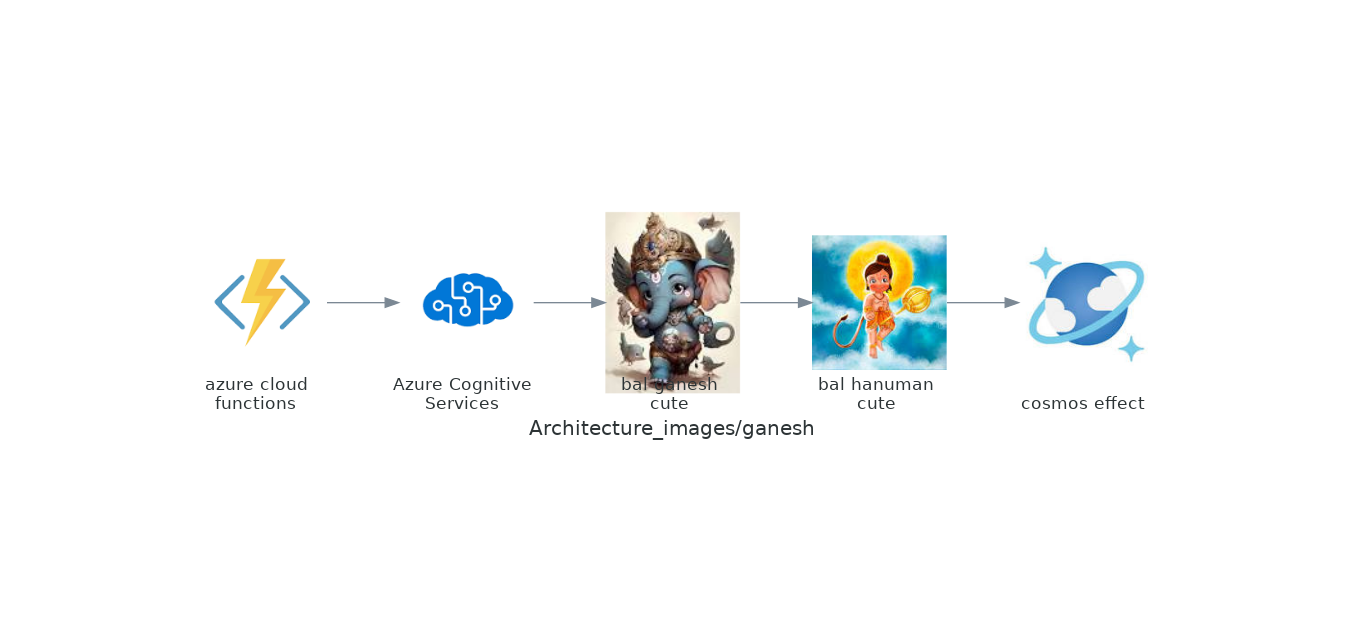
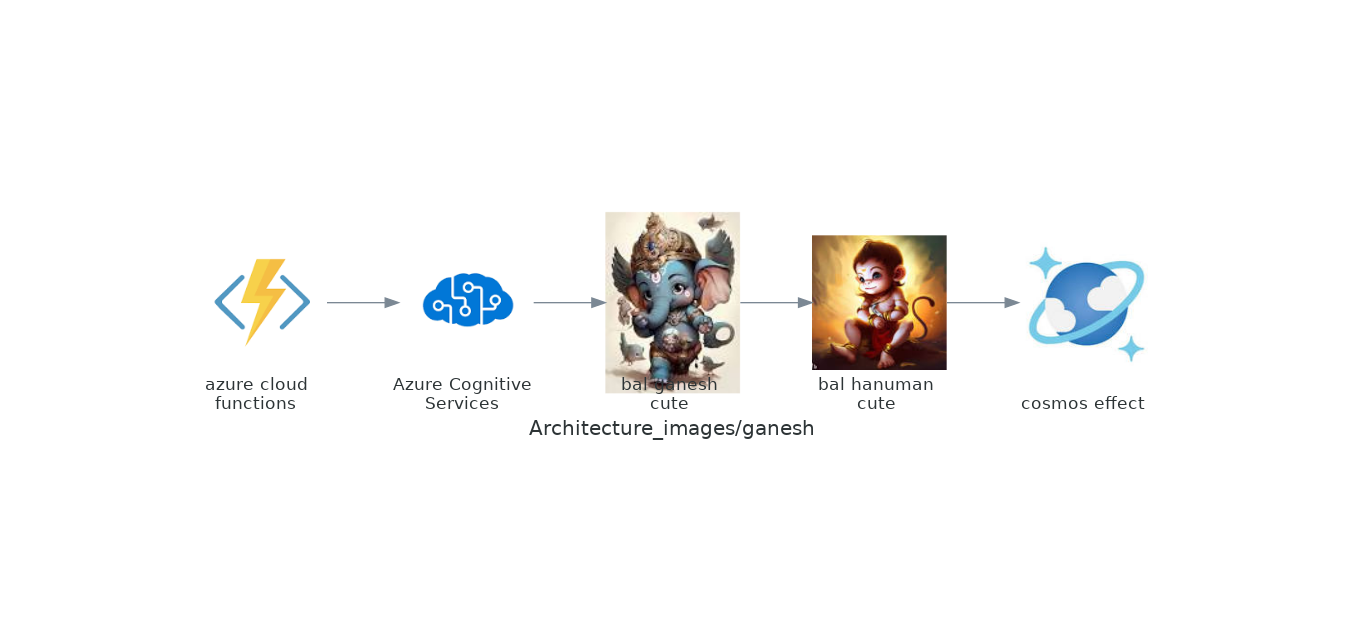
Move files to new folder

Changed region(s): [[0.5933, 0.3568, 0.7182, 0.5947]]

diff --git a/temporary_mermaid.html b/temporary_mermaid.html
@@ -11,7 +11,7 @@
         graph LR
         A[azure cloud functions] --> B[Azure Cognitive Services]
         B --> C[bal ganesh cute]
-        C --> D[bal govinda cute]
+        C --> D[bal hanuman cute]
         D --> E[cosmos effect]
     </div>
     <script src=https://cdn.jsdelivr.net/npm/mermaid@10/dist/mermaid.min.js></script>

diff --git a/dynamically_generated_stuff/dynamic_diagrams_code.py b/dynamically_generated_stuff/dynamic_diagrams_code.py
@@ -28,24 +28,24 @@ def get_image_urls(query):
         if img_url:
             image_urls.append(img_url)
     return image_urls[1]
-with Diagram("Architecture_images/govinda", show=False):
-    urlretrieve(get_image_urls("icon of Azure Cognitive Services in AZURE"), "/home/runner/work/Archimage_Generator/Archimage_Generator/dynamically_generated_stuff/temp_src_images/Azure_Cognitive_Services_icon.png")
-    Azure_Cognitive_Services_ = Custom("Azure Cognitive \nServices ", "/home/runner/work/Archimage_Generator/Archimage_Generator/dynamically_generated_stuff/temp_src_images/Azure_Cognitive_Services_icon.png")
-
-    urlretrieve(get_image_urls("icon of bal govinda cute in AZURE"), "/home/runner/work/Archimage_Generator/Archimage_Generator/dynamically_generated_stuff/temp_src_images/bal_govinda_cute_icon.png")
-    bal_govinda_cute_ = Custom("bal govinda \ncute ", "/home/runner/work/Archimage_Generator/Archimage_Generator/dynamically_generated_stuff/temp_src_images/bal_govinda_cute_icon.png")
-
+with Diagram("Architecture_images/ganesh", show=False):
     urlretrieve(get_image_urls("icon of cosmos effect in AZURE"), "/home/runner/work/Archimage_Generator/Archimage_Generator/dynamically_generated_stuff/temp_src_images/cosmos_effect_icon.png")
     cosmos_effect_ = Custom("cosmos effect \n", "/home/runner/work/Archimage_Generator/Archimage_Generator/dynamically_generated_stuff/temp_src_images/cosmos_effect_icon.png")
-
-    urlretrieve(get_image_urls("icon of azure cloud functions in AZURE"), "/home/runner/work/Archimage_Generator/Archimage_Generator/dynamically_generated_stuff/temp_src_images/azure_cloud_functions_icon.png")
-    azure_cloud_functions_ = Custom("azure cloud \nfunctions ", "/home/runner/work/Archimage_Generator/Archimage_Generator/dynamically_generated_stuff/temp_src_images/azure_cloud_functions_icon.png")
 
     urlretrieve(get_image_urls("icon of bal ganesh cute in AZURE"), "/home/runner/work/Archimage_Generator/Archimage_Generator/dynamically_generated_stuff/temp_src_images/bal_ganesh_cute_icon.png")
     bal_ganesh_cute_ = Custom("bal ganesh \ncute ", "/home/runner/work/Archimage_Generator/Archimage_Generator/dynamically_generated_stuff/temp_src_images/bal_ganesh_cute_icon.png")
 
+    urlretrieve(get_image_urls("icon of azure cloud functions in AZURE"), "/home/runner/work/Archimage_Generator/Archimage_Generator/dynamically_generated_stuff/temp_src_images/azure_cloud_functions_icon.png")
+    azure_cloud_functions_ = Custom("azure cloud \nfunctions ", "/home/runner/work/Archimage_Generator/Archimage_Generator/dynamically_generated_stuff/temp_src_images/azure_cloud_functions_icon.png")
+
+    urlretrieve(get_image_urls("icon of Azure Cognitive Services in AZURE"), "/home/runner/work/Archimage_Generator/Archimage_Generator/dynamically_generated_stuff/temp_src_images/Azure_Cognitive_Services_icon.png")
+    Azure_Cognitive_Services_ = Custom("Azure Cognitive \nServices ", "/home/runner/work/Archimage_Generator/Archimage_Generator/dynamically_generated_stuff/temp_src_images/Azure_Cognitive_Services_icon.png")
+
+    urlretrieve(get_image_urls("icon of bal hanuman cute in AZURE"), "/home/runner/work/Archimage_Generator/Archimage_Generator/dynamically_generated_stuff/temp_src_images/bal_hanuman_cute_icon.png")
+    bal_hanuman_cute_ = Custom("bal hanuman \ncute ", "/home/runner/work/Archimage_Generator/Archimage_Generator/dynamically_generated_stuff/temp_src_images/bal_hanuman_cute_icon.png")
+
 
     azure_cloud_functions_ >> Azure_Cognitive_Services_
     Azure_Cognitive_Services_ >> bal_ganesh_cute_
-    bal_ganesh_cute_ >> bal_govinda_cute_
-    bal_govinda_cute_ >> cosmos_effect_
+    bal_ganesh_cute_ >> bal_hanuman_cute_
+    bal_hanuman_cute_ >> cosmos_effect_
